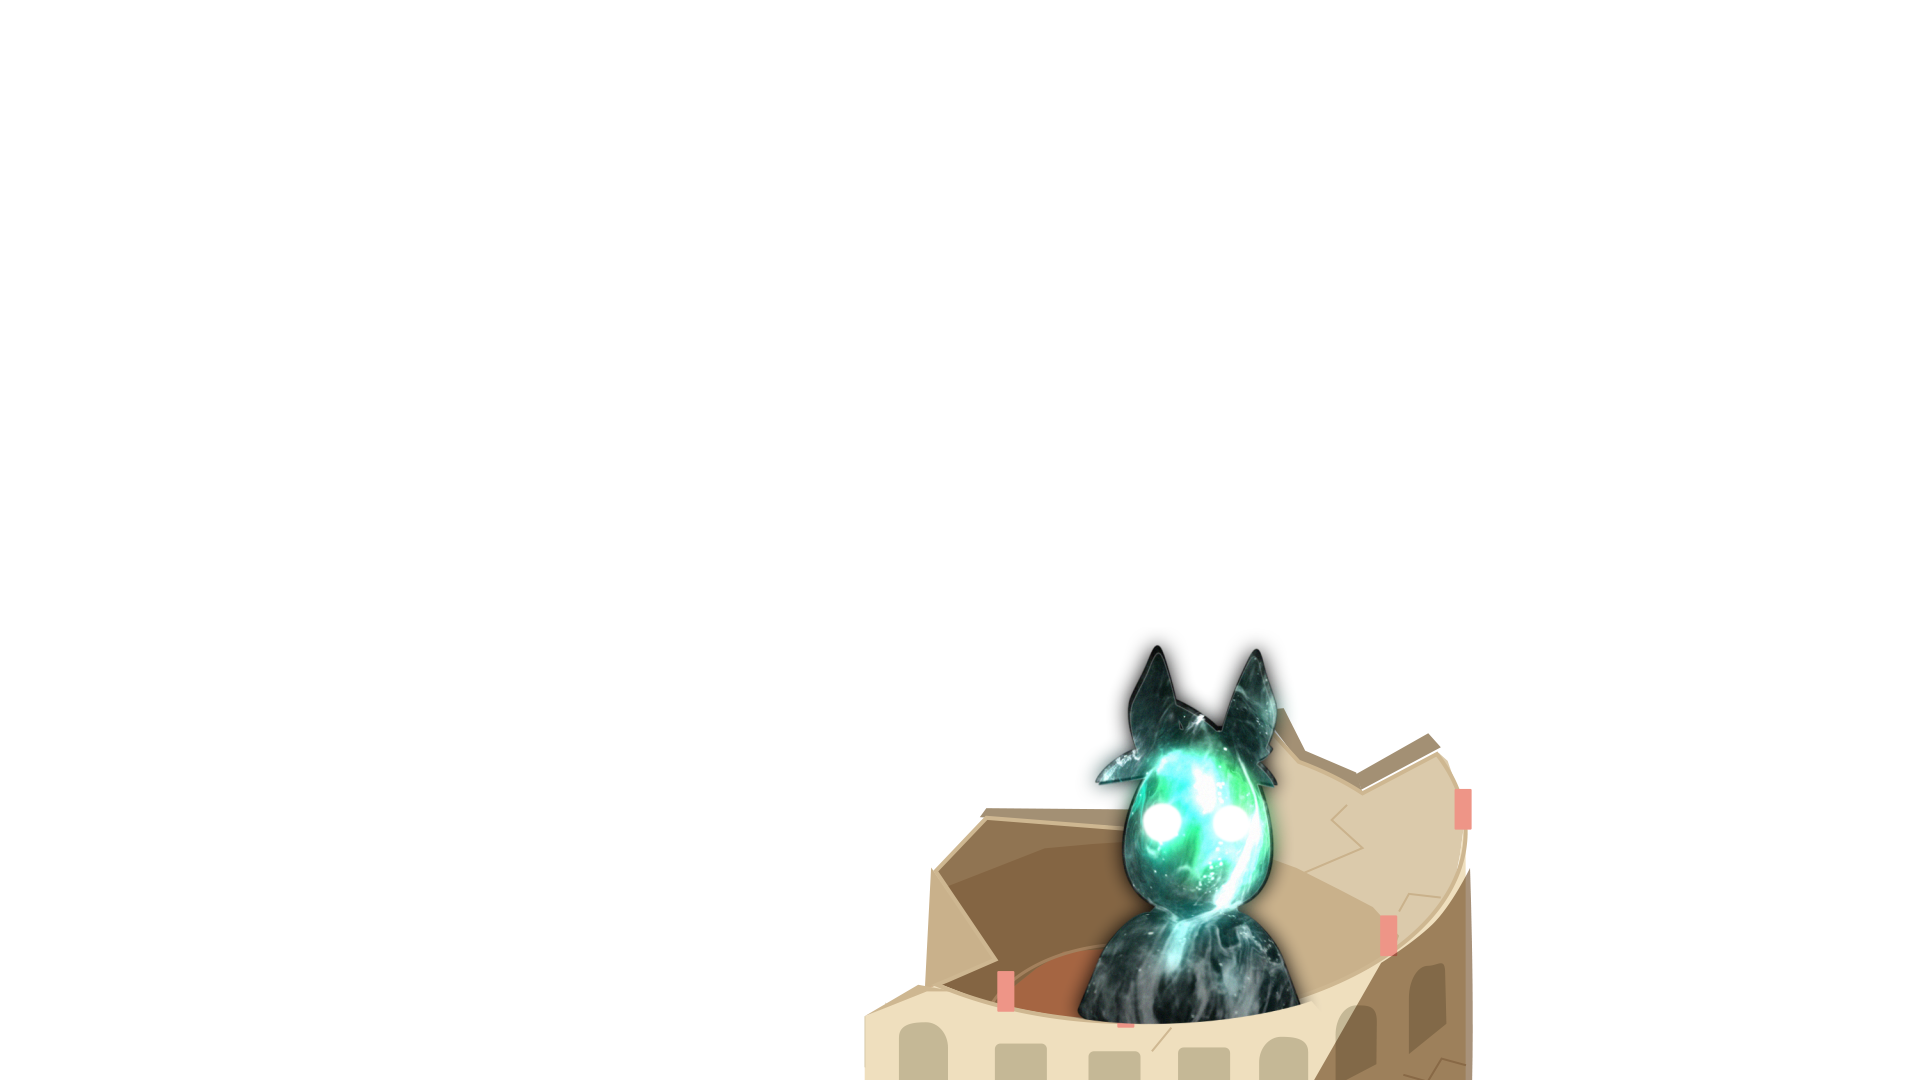
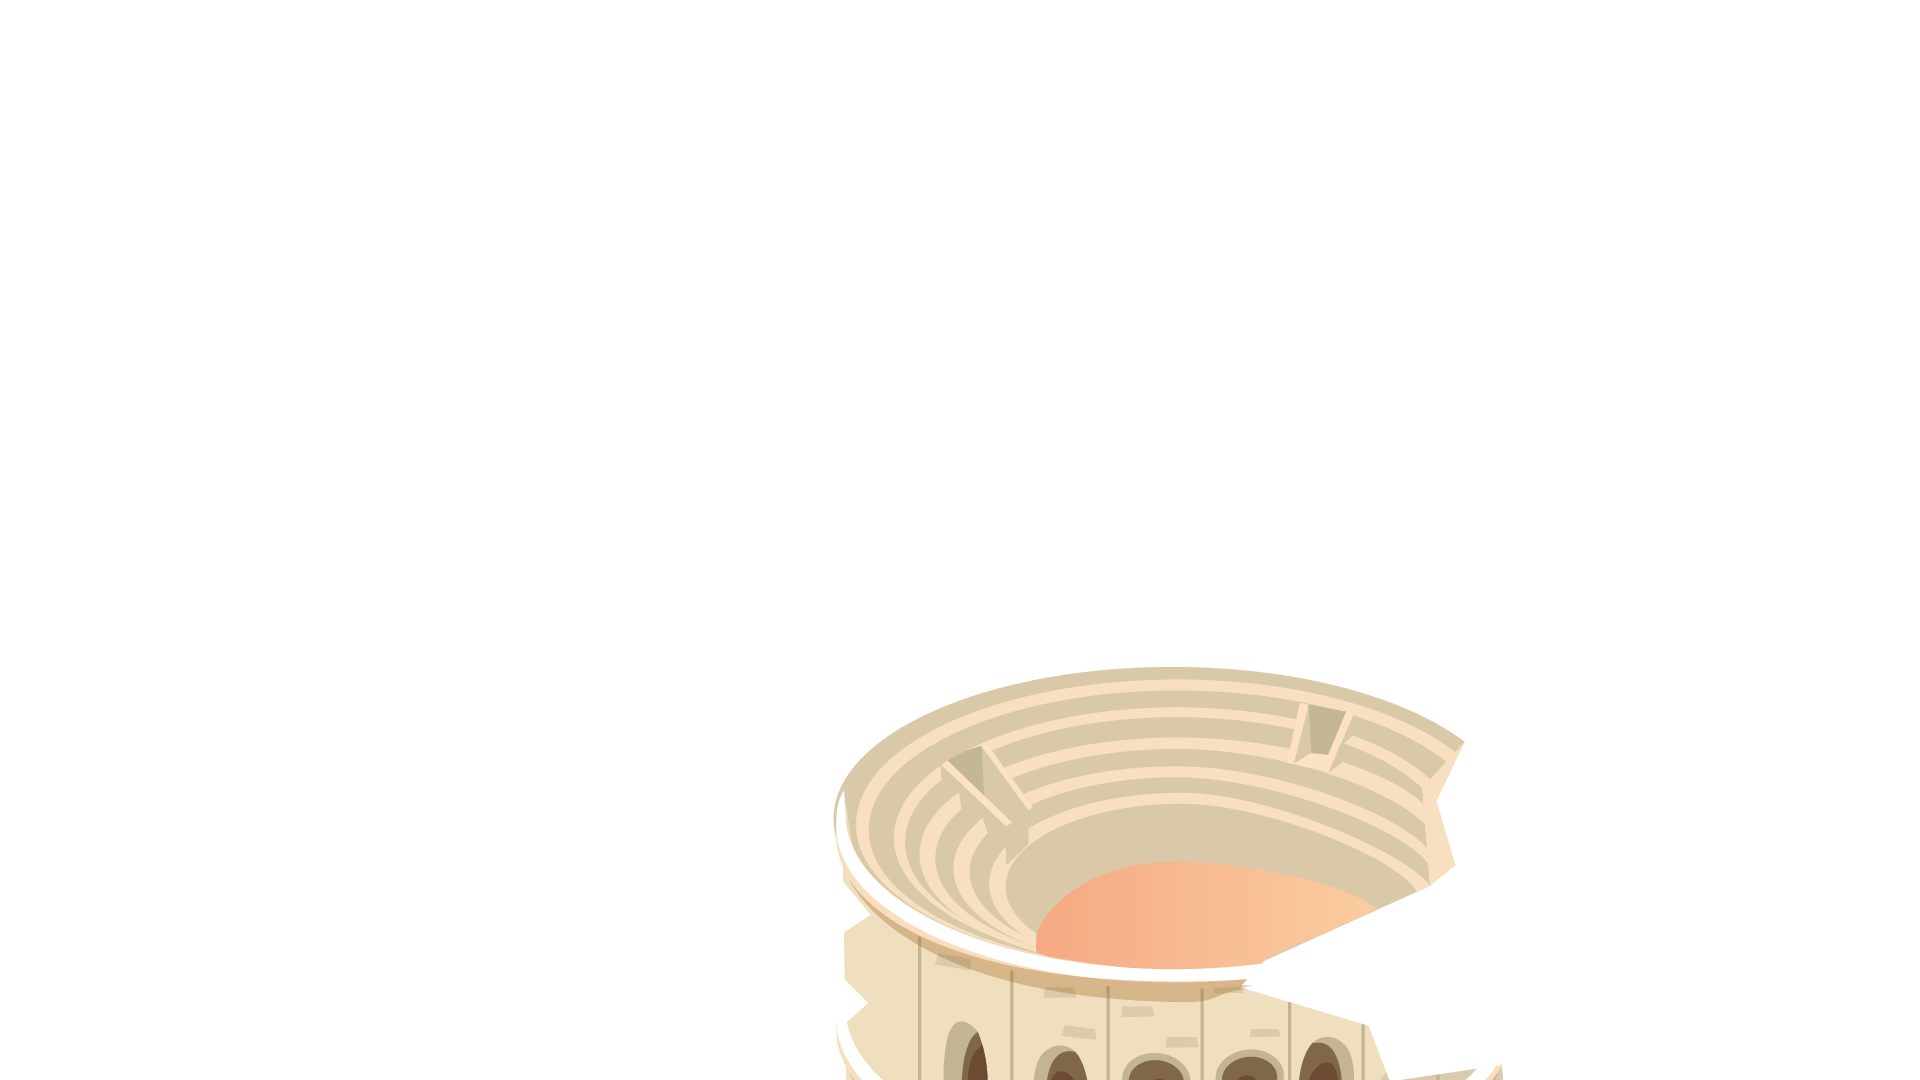
implement new coliseum designs and add sound effects

Changed region(s): [[0.4375, 0.5806, 0.7812, 1.0]]

diff --git a/src/Scenes/PraderaScene.js b/src/Scenes/PraderaScene.js
@@ -10,7 +10,7 @@ export default class Pradera extends Phaser.Scene{
     speed = 150;
     target = new Phaser.Math.Vector2();
     showAlert = false;
-    lastPosition = { x:0, y: 0, position: {x:960, y: 540}};
+    lastPosition = { x:0, y: 0, position: { x:960, y: 540 }};
     followCharacter = true;
     cameraLerpFlag = true;
     openDoor = true;
@@ -25,6 +25,7 @@ export default class Pradera extends Phaser.Scene{
     create(){
         this.loadingScreen = new LoadingScreen(this);
         this.loadAssets();
+        this.openDoor = true;
     }
     async start(){
         Alert.isAlert = false;
@@ -56,24 +57,26 @@ export default class Pradera extends Phaser.Scene{
         }
 
         this.incursion = await Near.GetActiveIncursion();
-        
 
         if(this.incursion.status == "Null" || parseInt(Date.now()) > parseInt(this.incursion.finish_time.toString().substring(0, 13)) + 108000000){
             this.coliseum_top = this.InsertImageInQuadrant({quadrant: {x: 1, y: 2}, image: {path:"coliseo_up_normal"}, offset: {x: 0, y:0}, depth : 2});
             this.coliseum_down = this.InsertImageInQuadrant({quadrant: {x: 1, y: 3}, image: {path:"coliseo_down_normal"}, offset: {x: 0, y:0}, depth : 0});
-        }else if(parseInt(Date.now()) > parseInt(this.incursion.finish_time).toString().substring(0, 13) && parseInt(Date.now()) < parseInt(this.incursion.finish_time.toString().substring(0, 13)) + 108000000){
+            this.mustOpenDoor = true;
+        } else if(parseInt(Date.now()) > parseInt(this.incursion.finish_time).toString().substring(0, 13) && parseInt(Date.now()) < parseInt(this.incursion.finish_time.toString().substring(0, 13)) + 108000000){
             this.coliseum_top = this.InsertImageInQuadrant({quadrant: {x: 1, y: 2}, image: {path:"coliseo_up_reconstruccion"}, offset: {x: 0, y:0}, depth : 2});
             this.coliseum_down = this.InsertImageInQuadrant({quadrant: {x: 1, y: 3}, image: {path:"coliseo_down_reconstruccion"}, offset: {x: 0, y:0}, depth : 0});
-        
+            this.mustOpenDoor = false;
         }else if(parseInt(Date.now()) > parseInt(this.incursion.start_time).toString().substring(0, 13)){
-            this.coliseum_top = this.InsertImageInQuadrant({quadrant: {x: 1, y: 3}, animation: {path:"coliseo_up_roto", end: 29, repeat: -1}, offset: {x:0, y:0}, depth: 2});
-            this.coliseum_down = this.InsertImageInQuadrant({quadrant: {x: 1, y: 3}, image: {path:"coliseo_down_normal"}, offset: {x: 0, y:0}, depth : 0});
+            this.coliseum_top = this.InsertImageInQuadrant({quadrant: {x: 1, y: 2}, animation: {path:"coliseo_up_roto", end: 29, repeat: -1}, offset: {x:0, y:0}, depth: 2});
+            this.coliseum_down = this.InsertImageInQuadrant({quadrant: {x: 1, y: 3}, image: {path:"coliseo_down_roto"}, offset: {x: 0, y:0}, depth : 0});
+            this.mustOpenDoor = false;
         }else{
-            this.InsertImageInQuadrant({quadrant: {x: 1, y: 3}, animation: {path:"coliseo_up_incursion", end: 26, repeat: -1}, offset: {x:0, y:0}, depth: 2});
+            this.InsertImageInQuadrant({quadrant: {x: 1, y: 2}, animation: {path:"coliseo_up_incursion", end: 26, repeat: -1}, offset: {x:0, y:0}, depth: 2});
             this.coliseum_top = this.InsertImageInQuadrant({quadrant: {x: 1, y: 2}, image: {path:"coliseo_up_normal"}, offset: {x: 0, y:0}, depth : 2});
 
             this.InsertImageInQuadrant({quadrant: {x: 1, y: 3}, animation: {path:"coliseo_down_incursion", end: 26, repeat: -1}, offset: {x:0, y:0}, depth: 2});
             this.coliseum_down = this.InsertImageInQuadrant({quadrant: {x: 1, y: 3}, image: {path:"coliseo_down_normal"}, offset: {x: 0, y:0}, depth : 0});
+            this.mustOpenDoor = true;
         }
         
         this.burrito = this.physics.add.sprite(this.sys.game.scale.gameSize.width / 2, this.sys.game.scale.gameSize.height / 2, "miniBurrito", 0).setOrigin(0.5).setScale(1.5).setCollideWorldBounds(true);
@@ -218,7 +221,6 @@ export default class Pradera extends Phaser.Scene{
         };
         let cell_09 = {
             images: [ { image: "cell_9", depth: -1 }], 
-            //animations:[{x: 960, y: 540, spritesheet:"sand_storm_1", depth: 2, end:28, repeat: -1}],
             colliders: [
                 {x: 200, y: 260, w: 385, h: 750},//wall
                 {x: 100, y: 830, w: 210, h: 390},//wall
@@ -229,13 +231,11 @@ export default class Pradera extends Phaser.Scene{
         };
         let cell_10 = { 
             images: [ { image: "cell_10", depth: -1 },], 
-            //animations:[{x: 960, y: 540, spritesheet:"sand_storm_1", depth: 2, end:28, repeat: -1}],
             wildBurritos: {num: 3, background: "desierto"},
             cactus:[ { x: 216, y: 322 },{ x: 344, y: 550 },{ x: 320, y: 787 },{ x: 840, y: 435 },{ x: 1013, y: 462 },{ x: 1665, y: 709 }, {x:1560, y:381}]
         };
         let cell_11 = { 
             images: [ { image: "cell_11", depth: -1 }], 
-            //animations:[{x: 960, y: 540, spritesheet:"sand_storm_1", depth: 2, end:28, repeat: -1}],
             wildBurritos: {num: 3, background: "pradera"},
             cactus:[ { x: 550, y: 260 },{ x: 720, y: 425 },{ x: 455, y: 795 },{ x: 930, y: 853 },{ x: 1315, y: 826 },{ x: 1507, y: 456 }, {x:1750, y:254}, {x:1550, y:940}]
         };
@@ -259,7 +259,6 @@ export default class Pradera extends Phaser.Scene{
         };
         let cell_13 = {
             images: [ { image: "cell_13", depth: -1 }], 
-            //animations:[{x: 960, y: 540, spritesheet:"sand_storm_1", depth: 2, end:28, repeat: -1}],
             colliders: [
                 {x: 205, y: 170, w: 411, h: 440},//wall
                 {x: 110, y: 460, w: 240, h: 160},//wall
@@ -273,7 +272,6 @@ export default class Pradera extends Phaser.Scene{
         };
         let cell_14 = { 
             images: [ { image: "cell_14", depth: -1 }, {image: "cell_14_details_1", depth: 1 }, { image: "cell_14_details_2", depth: -1}], 
-            //animations:[{x: 960, y: 540, spritesheet:"sand_storm_1", depth: 2, end:28, repeat: -1}],
             colliders:[
                 {x: 1160, y: 0, w: 400, h: 300},//wall
                 {x: 0, y: 60, w: 1920, h: 420},//wall
@@ -287,7 +285,6 @@ export default class Pradera extends Phaser.Scene{
         };
         let cell_15 = { 
             images: [ { image: "cell_15", depth: -1 }, ], 
-            //animations:[{x: 960, y: 540, spritesheet:"sand_storm_1", depth: 2, end:28, repeat: -1}],
             colliders: [
                 {x: 645, y: 300, w: 1700, h: 500},//wall
             ],
@@ -296,7 +293,6 @@ export default class Pradera extends Phaser.Scene{
         };
         let cell_16 = { 
             images: [ { image: "cell_16", depth: -1 }],
-            //animations:[{x: 960, y: 540, spritesheet:"sand_storm_1", depth: 2, end:28, repeat: -1}],
             colliders:[
                 {x: 1710, y: 355, w: 440, h: 176},//wall
                 {x: 1670, y: 535, w: 520, h: 180},//wall
@@ -323,6 +319,8 @@ export default class Pradera extends Phaser.Scene{
             [cell_13, cell_14, cell_15, cell_16, ],
             [cDesert, cDesert, cDesert, cDesert, ],
         ];
+
+        this.InsertImageInQuadrant({quadrant: {x: 1, y: 3}, animation: {path:"coliseo_puerta", end: 53, repeat: 0}, offset: {x:0, y:0}, depth: -1});
 
         this.zoneBattles_pradera = this.physics.add.group();
         this.zoneBattles_desierto = this.physics.add.group();
@@ -497,22 +495,16 @@ export default class Pradera extends Phaser.Scene{
         let y = Math.floor(this.burrito.y / 1080) * 1080;
         if(x != this.tmpX || y != this.tmpY || this.cameraLerpFlag){
             this.cameraLerpFlag = false;
+            this.footStepsSFX.setMute(true); 
             let currentQuadrant = {x : x/1920, y: y/1080};
 
             let quadrantsWithSand = [{x: 0,y: 2},{x: 1,y: 2},{x: 2,y: 2}, {x: 0,y: 3},{x: 1,y: 3},{x: 2,y: 3},{x: 3, y: 3}];
             let quadrantsWithSand2 = [{x: 0,y: 4},{x: 1,y: 4},{x: 2,y: 4},{x: 3,y: 4}, ];
 
-            if(quadrantsWithSand.some(element => { return element.x === currentQuadrant.x && element.y === currentQuadrant.y;}))
-                this.sand_1.setVisible(true);
-            else
-                this.sand_1.setVisible(false);
-
-            if(quadrantsWithSand2.some(element => { return element.x === currentQuadrant.x && element.y === currentQuadrant.y; }))
-                this.sand_2.setVisible(true);
-            else
-                this.sand_2.setVisible(false);
-
-            
+            let IsInQuadrantsWithSand = quadrantsWithSand.some(element => { return element.x === currentQuadrant.x && element.y === currentQuadrant.y;});
+            this.sand_1.setVisible(IsInQuadrantsWithSand);
+            let IsInQuadrantsWithSand2 = quadrantsWithSand2.some(element => { return element.x === currentQuadrant.x && element.y === currentQuadrant.y; });
+            this.sand_2.setVisible(IsInQuadrantsWithSand2);
 
             this.burrito.body.stop();
             this.followCharacter = false;
@@ -526,9 +518,10 @@ export default class Pradera extends Phaser.Scene{
                     scrollX: x,
                     scrollY: y,
                     onComplete: () => { 
-                        if(currentQuadrant.x === 1 && currentQuadrant.y == 3 && this.openDoor){
-                            setTimeout(() => {
-                                this.InsertImageInQuadrant({quadrant: {x: 1, y: 3}, animation: {path:"coliseo_puerta", end: 53, repeat: 0}, offset: {x:0, y:0}, depth: -1});
+                        this.footStepsSFX.setMute(false); 
+                        if(currentQuadrant.x === 1 && currentQuadrant.y == 3 && this.openDoor && this.mustOpenDoor){
+                            setTimeout(() => { 
+                                this.sound.add("open_gates", { loop: false, volume: SettingsButton.GetVolume()}).play();
                                 this.coliseum_down.play("coliseo_puerta_anim");
                                 this.cameras.main.shake(1200, 0.005);
                                 this.openDoor = false;
@@ -731,18 +724,16 @@ export default class Pradera extends Phaser.Scene{
         this.load.image("cell_16", '../src/assets/Images/Pradera/C16/C16.png');
         this.load.image("cell_16_details_1", '../src/assets/Images/Pradera/C15/Details 1.png');
 
-        this.load.image("hospital", '../src/assets/Images/Pradera/C12/hospital.png')
+        //this.load.image("hospital", '../src/assets/Images/Pradera/C12/hospital.png')
 
         this.load.image("desert", '../src/assets/Images/Pradera/Desert.png');
         this.load.image("cactus1", '../src/assets/Images/Pradera/Cactus 1.png');
         this.load.image("cactus2", '../src/assets/Images/Pradera/Cactus 2.png');
 
         this.load.spritesheet("coliseo_up_incursion",  '../src/assets/Images/Pradera/C10/incursion_proceso_sup.webp', {frameWidth:1920, frameHeight: 1080});
-        //this.load.spritesheet("coliseo_up_incursion",  '../src/assets/Images/Pradera/C10/coliseo_incursion.webp', {frameWidth:1920, frameHeight: 1080});
         this.load.image("coliseo_up_normal", '../src/assets/Images/Pradera/C10/coliseo_normal.png');
         this.load.image("coliseo_up_reconstruccion", '../src/assets/Images/Pradera/C10/coliseo_reconstruccion.png');
         this.load.spritesheet("coliseo_up_roto", '../src/assets/Images/Pradera/C10/incursion_iniciada.webp', {frameWidth: 1920, frameHeight:1080});
-        //this.load.image("coliseo_up_roto", '../src/assets/Images/Pradera/C10/coliseo_roto.png');
 
         this.load.spritesheet("coliseo_puerta", '../src/assets/Images/Pradera/C14/coliseo_puerta.webp', {frameWidth:1920, frameHeight: 1080});
         this.load.spritesheet("coliseo_down_incursion", '../src/assets/Images/Pradera/C14/incursion_proceso_inf.webp', {frameWidth:1920, frameHeight: 1080});
@@ -762,6 +753,8 @@ export default class Pradera extends Phaser.Scene{
 
         this.load.audio("praderaSong", '../src/assets/audio/Pradera.ogg')
         this.load.audio("footSteps", '../src/assets/audio/Footsteps.ogg');
+
+        this.load.audio("open_gates", '../src/assets/audio/open_gates.ogg')
 
         this.load.once("complete", this.start, this);
         this.load.start(); 

diff --git a/src/Scenes/ColiseoScene.js b/src/Scenes/ColiseoScene.js
@@ -25,10 +25,10 @@ export default class Coliseo extends Phaser.Scene{
         this.textures.remove("cards")
         this.load.spritesheet("mega_cards", '../src/assets/Images/Coliseo/Megaburrito.webp', {frameWidth: 1080, frameHeight: 1080});
 
-        this.load.image("coliseo_vacio", "../src/assets/Images/Coliseo/Coliseo_vacio.png");
-        this.load.image("coliseo_inicio", "../src/assets/Images/Coliseo/Coliseo_inicio.png");
-        this.load.image("coliseo_reconstruccion", "../src/assets/Images/Coliseo/Coliseo_reconstrucción.png");
-        this.load.image("coliseo_destruido", "../src/assets/Images/Coliseo/Coliseo_destruido.webp");//.png
+        this.load.image("coliseo_vacio", "../src/assets/Images/Coliseo/coliseo_new.webp");//Coliseo_vacio.png");
+        this.load.image("coliseo_inicio", "../src/assets/Images/Coliseo/coliseo_new.webp");//Coliseo_inicio.png");
+        this.load.image("coliseo_reconstruccion", "../src/assets/Images/Coliseo/coliseo_new.webp");//Coliseo_reconstrucción.png");
+        this.load.image("coliseo_destruido", "../src/assets/Images/Coliseo/coliseo_new.webp");//Coliseo_destruido.webp");//.png
 
         this.load.image("cerrar", '../src/assets/Images/cerrar.png');
 
